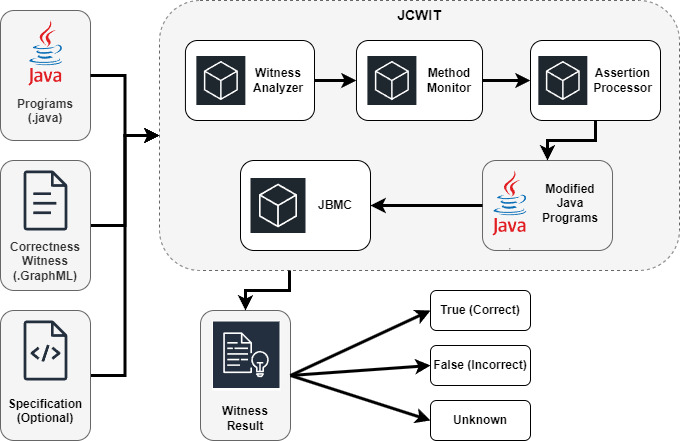
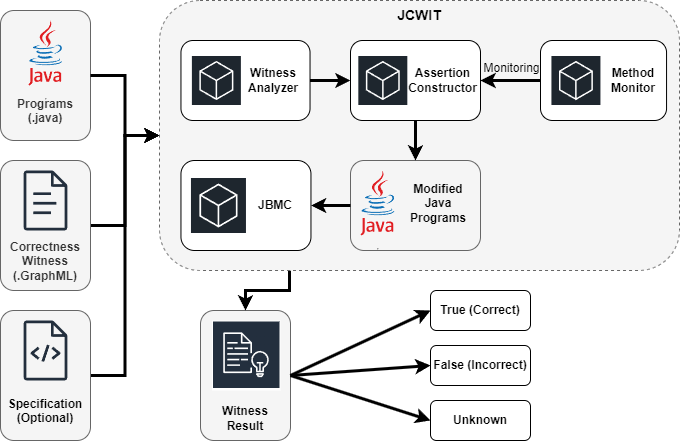
update READEME

diff --git a/README.md b/README.md
@@ -3,7 +3,7 @@
 
 # Description
 
-JCWIT is a  correctness-witness validator used for validating result output by Java verifiers. It takes a Java program with safety properties and the corresponding correctness witnesses to validate the verification results. JCWIT extracts the invariants from the correctness witnesses and re-injects them as assertion statements into the original program using the Mockito framework. A Java model checker is used to re-verify these assertion statements to check whether they are hold in the original Java program. In addition, JCWIT determines the completeness of the correctness witnesses by checking for the existence of cycles.
+Witness validation is a formal verification method to independently verify software verification tool results, with two main categories: violation and correctness witness validators. Validators for violation witnesses in Java include Wit4Java and GWIT, but no dedicated correctness witness validators exist. To address this gap, we presents the Java Correctness-Witness Validator (JCWIT), the first tool to validate correctness witnesses in Java programs. JCWIT accepts an original program, a specification, and a correctness witness as inputs. Then, it uses invariants of each witness's execution state as conditions to be incorporated into the original program in the form of assertions, thus instrumenting it. Next, JCWIT employs an established tool, Java Bounded Model Checker (JBMC), to verify the transformed program, hence examining the reproducibility of correct witness results.
 
 # Architecture
 
